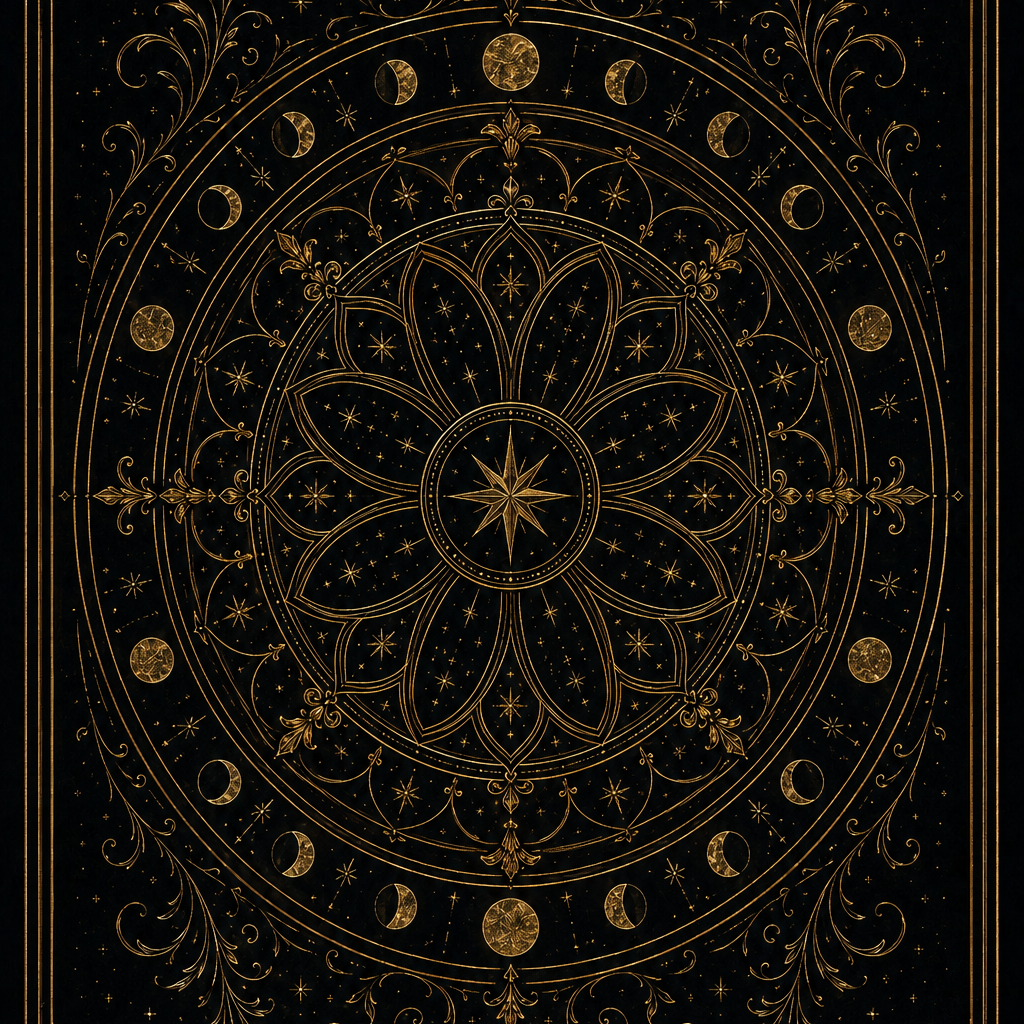
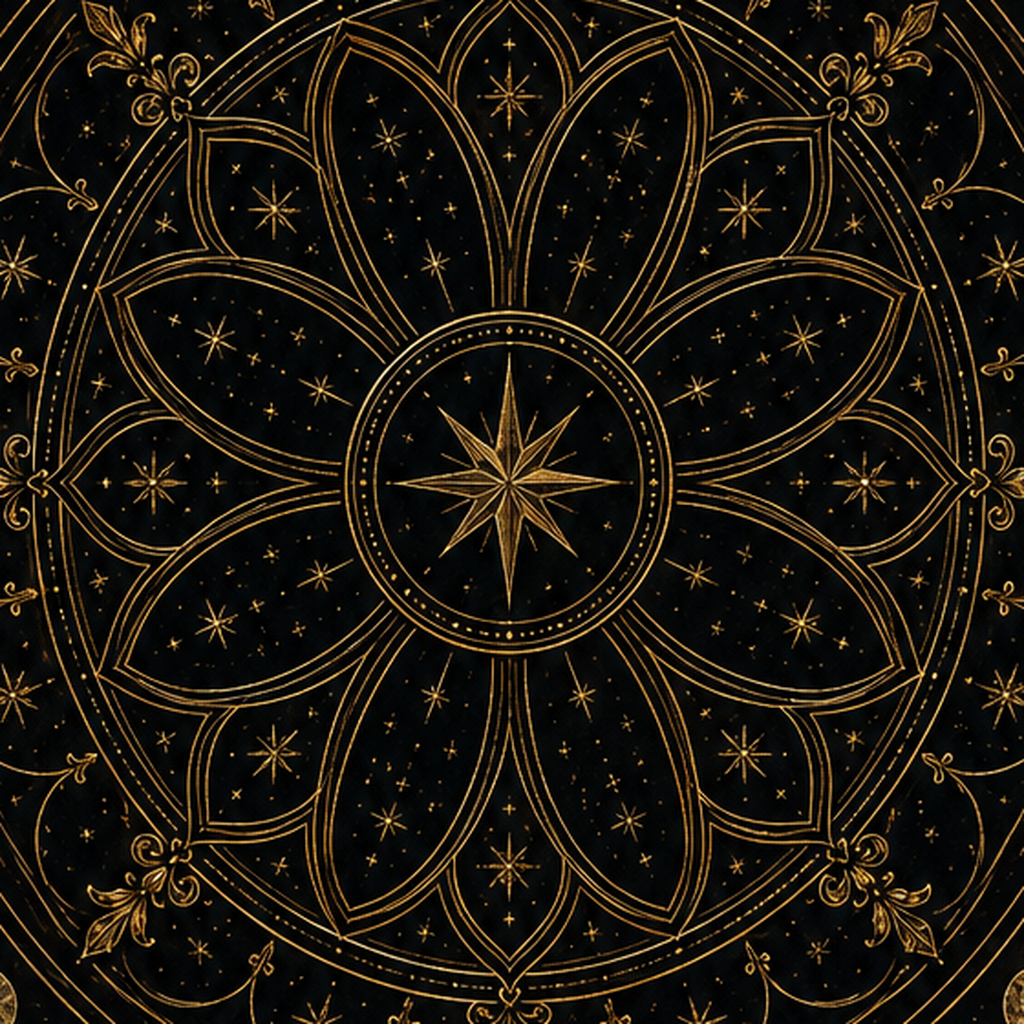
fix(shell): product flow wiring - founder device QA round 1
- pick -> home returned to TOP: concatenated nav URL became an unknown hash
  and fell back to the QA catalog. Fixed URL + storage flag; builder now
  fails the build on any concatenated nav URL.
- default page is now runtime-resolved: onboarding on first launch (no
  profile), theme afterwards. QA catalog only via #index.
- birth data persists in localStorage (sessionStorage dies with the WebView).
- horizontal scroll clamped at the shell (overflow-x hidden).
- theme copy reworked per founder feedback (atmosphere + no commas).
- app icon v2: compass-star core zoom so it reads at small sizes.

Verified in browser: first-run -> onboarding, theme -> pick -> home lands
with real reading (Judgement x love x Pisces), reload -> theme, no h-scroll.

diff --git a/design/mockups/home.html b/design/mockups/home.html
@@ -537,6 +537,13 @@
   (function(){
     var hasPick = false;
     try { hasPick = new URLSearchParams(location.search).has('picked'); } catch(e) {}
+    // WebView ルーター経由では query が付かないので storage フラグでも受ける（読んだら消す）
+    try {
+      if (!hasPick && sessionStorage.getItem('pythiel.fromPick') === '1') {
+        hasPick = true;
+        sessionStorage.removeItem('pythiel.fromPick');
+      }
+    } catch(e) {}
     if (!hasPick) return;
     var screen = document.querySelector('.screen');
     if (screen) screen.classList.add('intro');
@@ -615,7 +622,9 @@
     // pick.html が ('pythiel.userId') に「引いたカードの種」を保存する。
     function readOnboarding() {
       try {
-        var raw = sessionStorage.getItem('pythiel.onboarding');
+        var raw = null;
+        try { raw = localStorage.getItem('pythiel.onboarding'); } catch (e2) {}
+        if (!raw) raw = sessionStorage.getItem('pythiel.onboarding');
         if (!raw) return null;
         var s = JSON.parse(raw);
         if (!s.year || !s.month || !s.day) return null;

diff --git a/design/mockups/pick.html b/design/mockups/pick.html
@@ -513,12 +513,16 @@
       setTimeout(function(){ fill.classList.add('show'); }, 1650);
 
       // ⑥ 光が満ちきる頃に即 home へ（待ちを作らない。home 側がゴールド光から明ける）
+      // 遷移先 URL は固定文字列にすること — 連結すると WebView ルーターのハッシュ書き換えが
+      // '#home' + idx を作って未知ページ扱い→TOP フォールバックする（実機バグ 2026-07-18）。
+      // 引いたカードは storage で渡す。
       setTimeout(function(){
         try {
           sessionStorage.setItem('pythiel.pickedIdx', idx);
           sessionStorage.setItem('pythiel.userId', 'pick-' + Date.now() + '-' + idx);
+          sessionStorage.setItem('pythiel.fromPick', '1');
         } catch(e) {}
-        location.href = './home.html?picked=' + idx;
+        location.href = './home.html';
       }, 2500);
     });
   })();

diff --git a/design/mockups/theme.html b/design/mockups/theme.html
@@ -129,12 +129,12 @@
     </div>
 
     <div class="eyebrow"><span class="ch">I</span><span class="label">今日のはじまり</span></div>
-    <div class="headline">今日は、なにを<br><span class="em">占いましょう</span>。</div>
-    <div class="subline">心にいちばん近いものを、ひとつ。</div>
+    <div class="headline">今日は どこに<br><span class="em">光</span>をあてる？</div>
+    <div class="subline">心にいちばん近いものを ひとつ</div>
 
     <div class="theme-list" id="theme-list"></div>
 
-    <div class="footnote">選ぶと、今日の一枚を引く儀へ。</div>
+    <div class="footnote">選ぶと 今日の一枚を引く儀へ</div>
   </div>
 
   <div class="veil-fill" id="veil-fill"></div>

diff --git a/design/mockups/onboarding.html b/design/mockups/onboarding.html
@@ -458,6 +458,8 @@
   }
   function enter(){
     // 生年月日等を保存 → 今日の問い（テーマ選択）へ。
+    // 誕生日は永続データ — localStorage に保存（sessionStorage は WebView の再起動で消える）
+    try { localStorage.setItem('pythiel.onboarding', JSON.stringify(state)); } catch(e){}
     try { sessionStorage.setItem('pythiel.onboarding', JSON.stringify(state)); } catch(e){}
     location.href = './theme.html';
   }